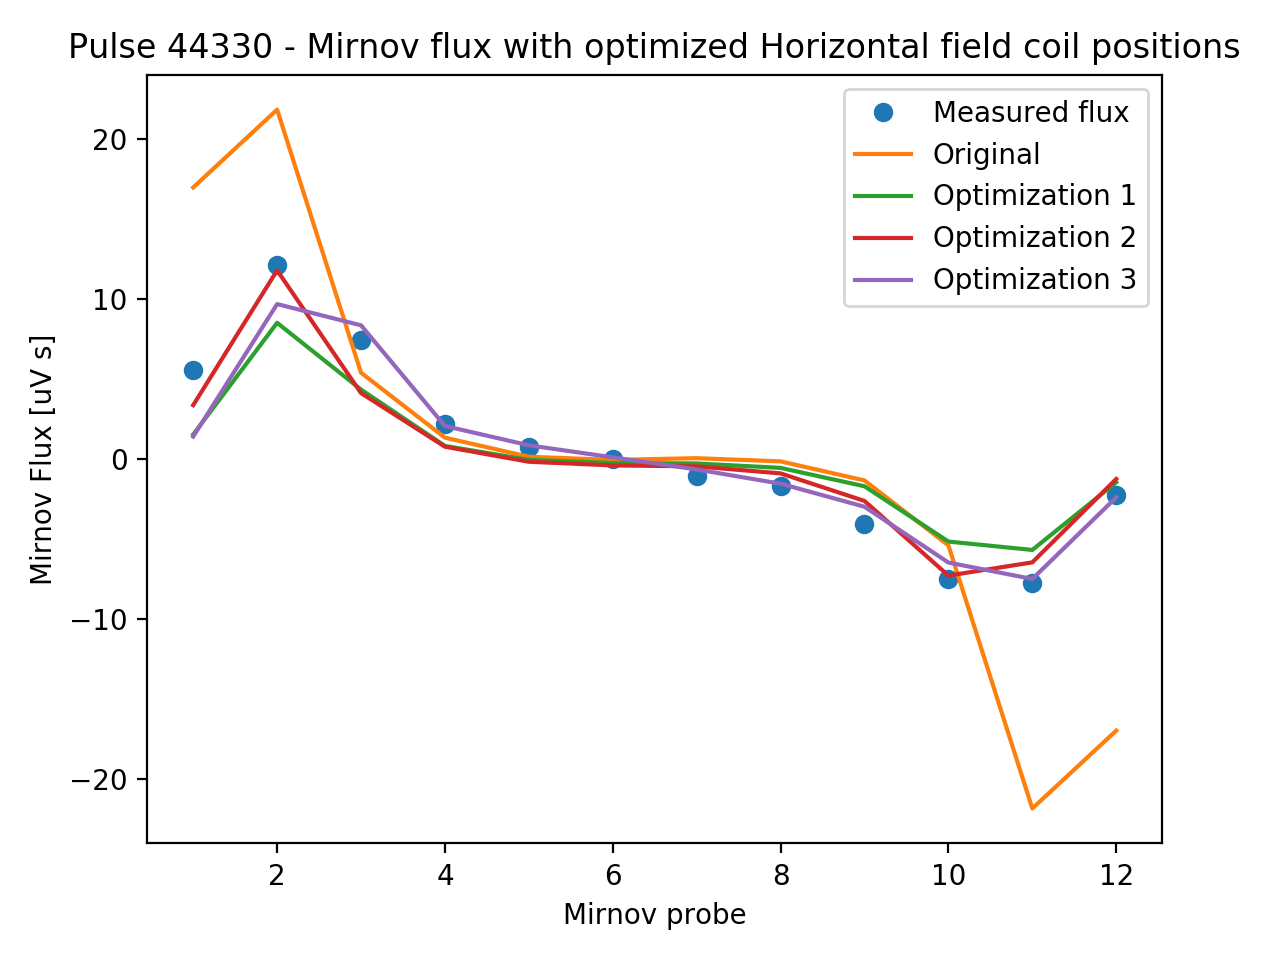
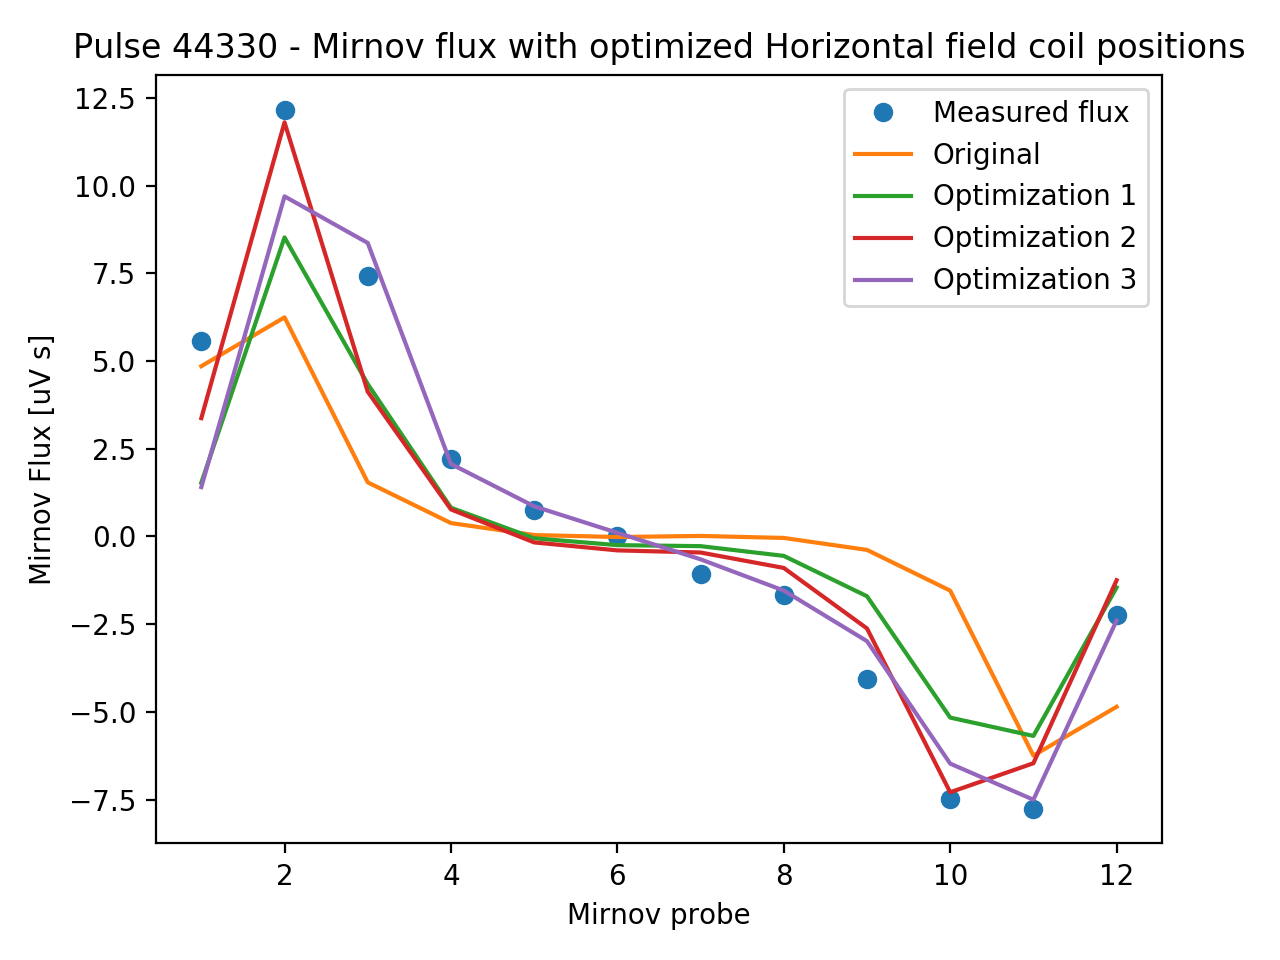
Fix plots

diff --git a/OptimizationComparissom.py b/OptimizationComparissom.py
@@ -71,7 +71,7 @@ for shot, i, ft in zip(shotsV,iV,ftV):
 
 #Horizontal
 for shot, i, ft in zip(shotsH,iH,ftH):
-    H0=getMirnovFlux([58.,58.,35.,35.],[-7.,7.,-7.,7.],[1.,-1.],14,biotSavart=False)*i*1e6
+    H0=getMirnovFlux(originalH[0],originalH[1],[1.,-1.],originalH[2][1],biotSavart=False)*i*1e6
     H1=getMirnovFluxCorrected(optimH1[0],optimH1[1],[1.,-1.],optimH1[2][1],optimH1[3],biotSavart=False)*i*optimH1[2][0]*1e6
     H2=getMirnovFluxCorrected(optimH2[0],optimH2[1],[1.,-1.],optimH2[2][1],optimH2[3],biotSavart=False)*i*optimH2[2][0]*1e6
     H3=getMirnovFluxCorrected(optimH3[0],optimH3[1],[1.,-1.],optimH3[2][1],optimH3[3],biotSavart=False)*i*optimH3[2][0]*1e6
@@ -90,7 +90,7 @@ for shot, i, ft in zip(shotsH,iH,ftH):
 
 #Primary
 for shot, i, ft in zip(shotsP,iP,ftP):
-    P0=getMirnovFlux([58.,58.,35.,35.],[-7.,7.,-7.,7.],[1.,1.],14,biotSavart=False)*i*1e6
+    P0=getMirnovFlux(originalP[0],originalP[1],[1.,1.],originalP[2][1],biotSavart=False)*i*1e6
     P1=getMirnovFluxCorrected(optimP1[0],optimP1[1],[1.,1.],optimP1[2][1],optimP1[3],biotSavart=False)*i*optimP1[2][0]*1e6
     P2=getMirnovFluxCorrected(optimP2[0],optimP2[1],[1.,1.],optimP2[2][1],optimP2[3],biotSavart=False)*i*optimP2[2][0]*1e6
     P3=getMirnovFluxCorrected(optimP3[0],optimP3[1],[1.,1.],optimP3[2][1],optimP3[3],biotSavart=False)*i*optimP3[2][0]*1e6
